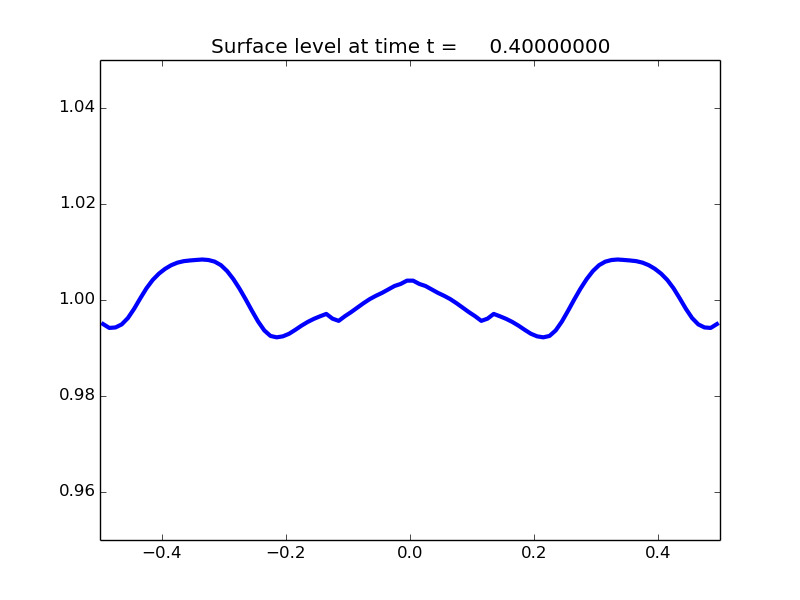
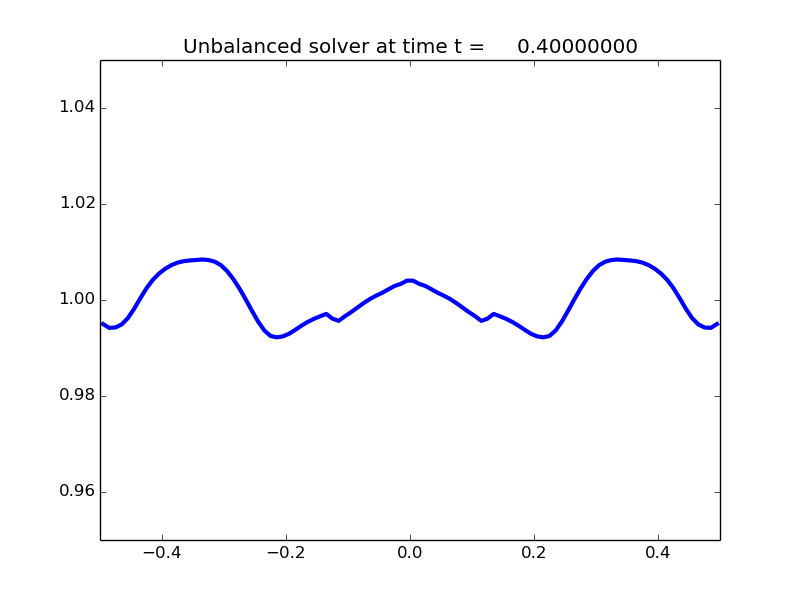
Update unbalanced figures

Changed region(s): [[0.2188, 0.06, 0.8125, 0.09]]

diff --git a/code/1D_SWE/1D_SWE.py b/code/1D_SWE/1D_SWE.py
@@ -495,7 +495,7 @@ def setplot(plotdata):
     plotdata.clearfigures()  # clear any old figures,axes,items data
 
     # Figure for Surface Level and Potential Vorticity
-    plotfigure = plotdata.new_plotfigure(name='Surface level', figno=0)
+    plotfigure = plotdata.new_plotfigure(name='Unbalanced solver', figno=0)
 
     # Set up for axes in this figure:
     plotaxes = plotfigure.new_plotaxes()
@@ -510,7 +510,7 @@ def setplot(plotdata):
     }[Scenario]
     plotaxes.ylimits = [0.0,max_h]
     plotaxes.ylimits = [0.95,1.05]
-    plotaxes.title = 'Surface level'
+    plotaxes.title = 'Unbalanced solver'
     #plotaxes.axescmd = 'subplot(211)'
 
     # Set up for items on these axes:
